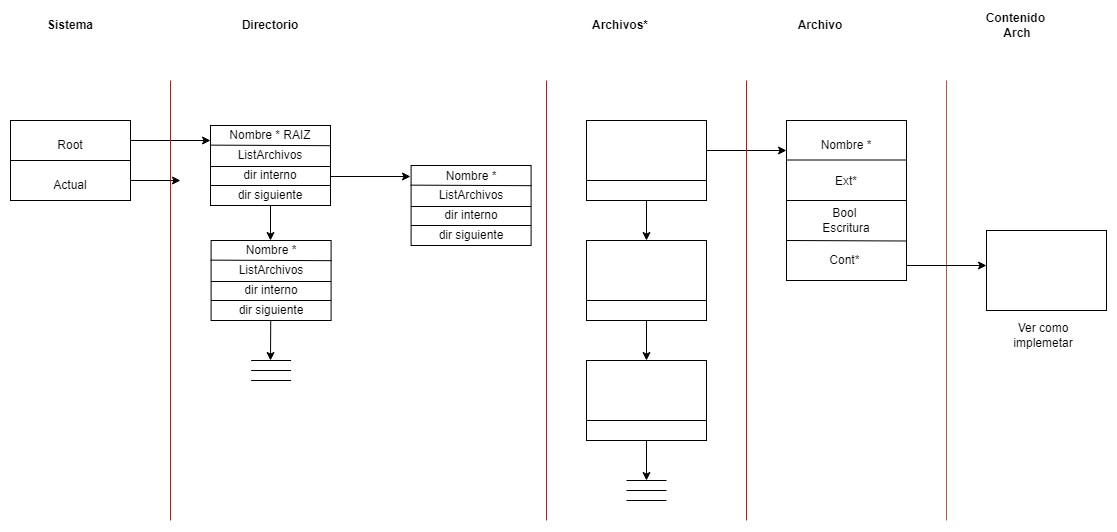
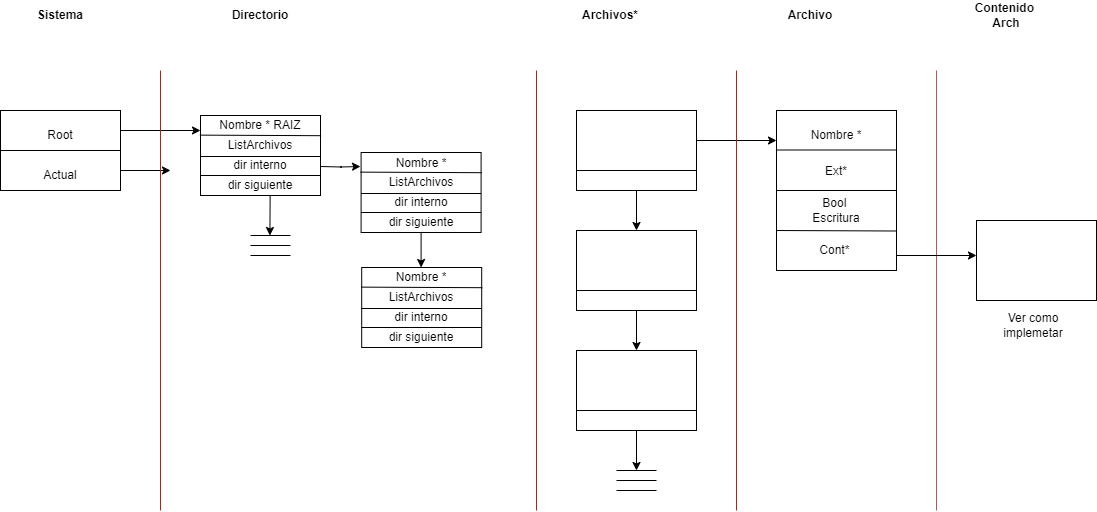
Haciendo pruebas con estructuras de directorios diferentes

diff --git a/lista_directorios.c b/lista_directorios.c
@@ -1,0 +1,117 @@
+// Estructuras de Datos y Algoritmos - Curso 2023
+// Tecnologo en Informatica FIng - DGETP - UTEC
+//
+// Trabajo Obligatorio
+// directorios.c
+// Modulo de Implementacion de directorio.
+
+#include "definiciones.h"
+#include "lista_directorios.h"
+#include "listArchivos.h"
+#include "archivo.h"
+#include "contenido.h"
+#include <string.h>
+#include <iostream>
+
+using namespace std;
+
+struct nodo_directorio_root{
+    directorio root;
+};
+
+
+struct nodo_listDirect{
+    directorio dir;
+    lista_directorio siguiente;
+};
+
+struct nodo_directorio{
+    Cadena nombre;
+    list_archivos archs;
+    lista_directorio internos;
+};
+
+//Funciones directorio root
+
+
+// Funciones lista de directorios.
+
+lista_directorio Null_lista_directorio(){
+// Retorna una lista de directorios vacios.
+    return NULL;
+}
+
+directorio Head_lista_directorios(lista_directorio ld){
+//Retorna el directorio actual de la lista de directorios.
+    return ld->dir;
+}
+
+lista_directorio Tail_lista_directorios(lista_directorio ld){
+//Retorna la lista de directorios sin el primer directorio.
+    return ld->siguiente;
+}
+
+bool IsEmpty_lista_directorio(lista_directorio ld){
+//Retorna true si la lista de directorios es vacia y false en caso contrario.
+    return (ld == NULL);
+}
+
+lista_directorio Crear_lista_directorio(){
+//Retorna un directorio nuevo.
+    lista_directorio ld = new(nodo_listDirect);
+    ld->dir = NULL;
+    ld->siguiente = NULL;
+    return ld;
+}
+
+//Funciones directorio
+
+directorio Null_directorio(){
+//Retorna un directorio vacio.
+    return NULL;
+}
+
+Cadena Nombre_directorio(directorio d){
+//Retorna el nombre del directorio actual
+    return d->nombre;
+}
+
+list_archivos Lista_archivos(directorio d){
+//Retorna la lista de archivos de del directorio.
+    return d->archs;
+}
+
+lista_directorio lista_directorios_internos(directorio d){
+//Retorna la lista de directorios internos del directorio actual
+    return d->internos;
+}
+
+directorio Crear_directorio(Cadena nombre){
+//Crea un directorio vacio con el nombre que se le pasa
+    directorio d = new(nodo_directorio);
+    d->nombre = new char[MAX_NOMBRE];
+    strcpy(d->nombre, nombre);
+    d->archs = NULL;
+    d->internos = NULL;
+    return d;
+}
+
+directorio Insertar_lista_archivos(directorio d, list_archivos la){
+//Inserta una lista de darchivos "la" en un directorio "d"
+    d->archs = la;
+    return d;
+}
+
+//Funciones que combinan las estructuras
+
+
+bool Existe_directorio(lista_directorio ld, Cadena nombre){
+//Retorna true si existe el directorio y false en caso contrario
+    while(!IsEmpty_lista_directorio(ld)){
+        Cadena nombreDir = Nombre_directorio(Head_lista_directorios(ld));
+        if(strcmp(nombre,nombreDir) == 0)
+            return true;
+        ld = Tail_lista_directorios(ld);
+    }
+    return false;
+}

diff --git a/lista_directorios.h b/lista_directorios.h
@@ -1,0 +1,65 @@
+#ifndef DIRECTORIO_H
+#define DIRECTORIO_H
+
+#include "definiciones.h"
+#include "listArchivos.h"
+#include "archivo.h"
+#include "contenido.h"
+
+// Estructuras de Datos y Algoritmos - Curso 2023
+// Tecnologo en Informatica FIng - DGETP - UTEC
+//
+// Trabajo Obligatorio
+// directorio.h
+// Modulo de Definición de directorio.
+
+typedef struct nodo_directorio_root * root;
+
+typedef struct nodo_listDirect * lista_directorio;
+
+typedef struct nodo_directorio * directorio;
+
+
+// Funciones lista de directorios.
+
+lista_directorio Null_lista_directorio();
+// Retorna una lista de directorios vacios.
+
+directorio Head_lista_directorios(lista_directorio ld);
+//Retorna el directorio actual de la lista de directorios.
+
+lista_directorio Tail_lista_directorios(lista_directorio ld);
+//Retorna la lista de directorios sin el primer directorio.
+
+bool IsEmpty_lista_directorio(lista_directorio ld);
+//Retorna true si la lista de directorios es vacia y false en caso contrario.
+
+lista_directorio Crear_lista_directorio();
+//Retorna un directorio nuevo.
+
+//Funciones directorio
+
+directorio Null_directorio();
+//Retorna un directorio vacio.
+
+Cadena Nombre_directorio(directorio d);
+//Retorna el nombre del directorio actual
+
+list_archivos Lista_archivos(directorio d);
+//Retorna la lista de archivos de del directorio.
+
+lista_directorio lista_directorios_internos(directorio d);
+//Retorna la lista de directorios internos del directorio actual
+
+directorio Crear_directorio(Cadena nombre);
+//Crea un directorio vacio con el nombre que se le pasa
+
+directorio Insertar_lista_archivos(directorio d, list_archivos la);
+//Inserta una lista de darchivos "la" en un directorio "d"
+
+//Funciones que combinan las estructuras
+
+bool Existe_directorio(lista_directorio ld, Cadena nombre);
+//Retorna true si existe el directorio y false en caso contrario
+
+#endif

diff --git a/sistema.c b/sistema.c
@@ -10,7 +10,8 @@
 #include <iostream>
 
 #include "sistema.h"
-#include "directorio.h"
+//#include "directorio.h"
+#include "lista_directorios.h"
 #include "listArchivos.h"
 #include "archivo.h"
 #include "contenido.h"
@@ -140,11 +141,17 @@ TipoRet DIR (Sistema &s, Cadena parametro){
 	
 	list_archivos l_aux = listArchs(Dir_act(s));
 	Cadena nomDir = Nombre_directorio(Dir_act(s));
+
+	directorio dirInt = Directorio_interno(Dir_act(s));
 	cout << nomDir << endl;
 	if (IsEmpty_listArchivos(l_aux)){
 		cout << "Directorio vacio\n";
 	} else {
 		if(parametro != NULL){
+
+			//Agregar la impresion del directorio siguiente SI NO ES NULO
+
+
 			while(l_aux != NULL){				
 				Cadena nomAr = Nombre_archivo(Head_listArchivos(l_aux));
 				Cadena extAr = Extension_archivo(Head_listArchivos(l_aux));
